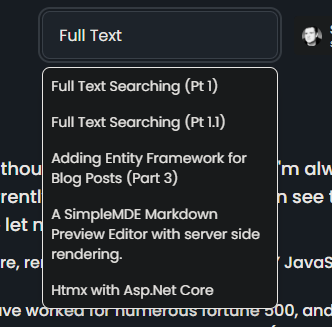
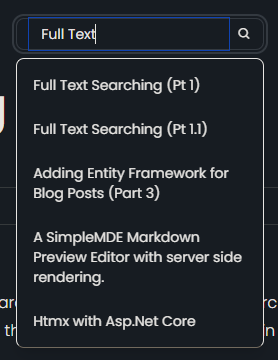
Update.

Changed region(s): [[0.0, 0.0, 1.0, 1.0], [0.0, 0.2446, 0.0288, 0.367]]

diff --git a/Mostlylucid/Markdown/textsearchingpt11.md b/Mostlylucid/Markdown/textsearchingpt11.md
@@ -5,6 +5,12 @@
 ## Introduction
 In the [last article](/blog/textsearchingpt1) I showed you how to set up a full text search using the built in full text search capabilities of Postgres. While I exposed a search api I didn't have a way to actually use it so...it was a bit of a tease. In this article I'll show you how to use the search api to search for text in your database.
 
+This will add a little search box to the header of the site which will allow users to search for text in the blog posts.
+
+![Search](searchbox.png)
+
+**Note: The elephant in the room is that I do not consider the best way to do this. To support multi-language is super complex (I'd need a different column per language) and I'd need to handle stemming and other language specific things. I'm going to ignore this for now and just focus on English. LATER we'll show how to handle this in OpenSearch.** 
+
 [TOC]
 
 ## Searching for text
@@ -193,4 +199,3 @@ We also change the url in the history to the new url.
 ## In Conclusion
 This adds a powerful yet simple search capability to the site. It's a great way to help users find what they're looking for. 
 It gives this site a more professional feel and makes it easier to navigate.
-![Search](searchbox.png)
